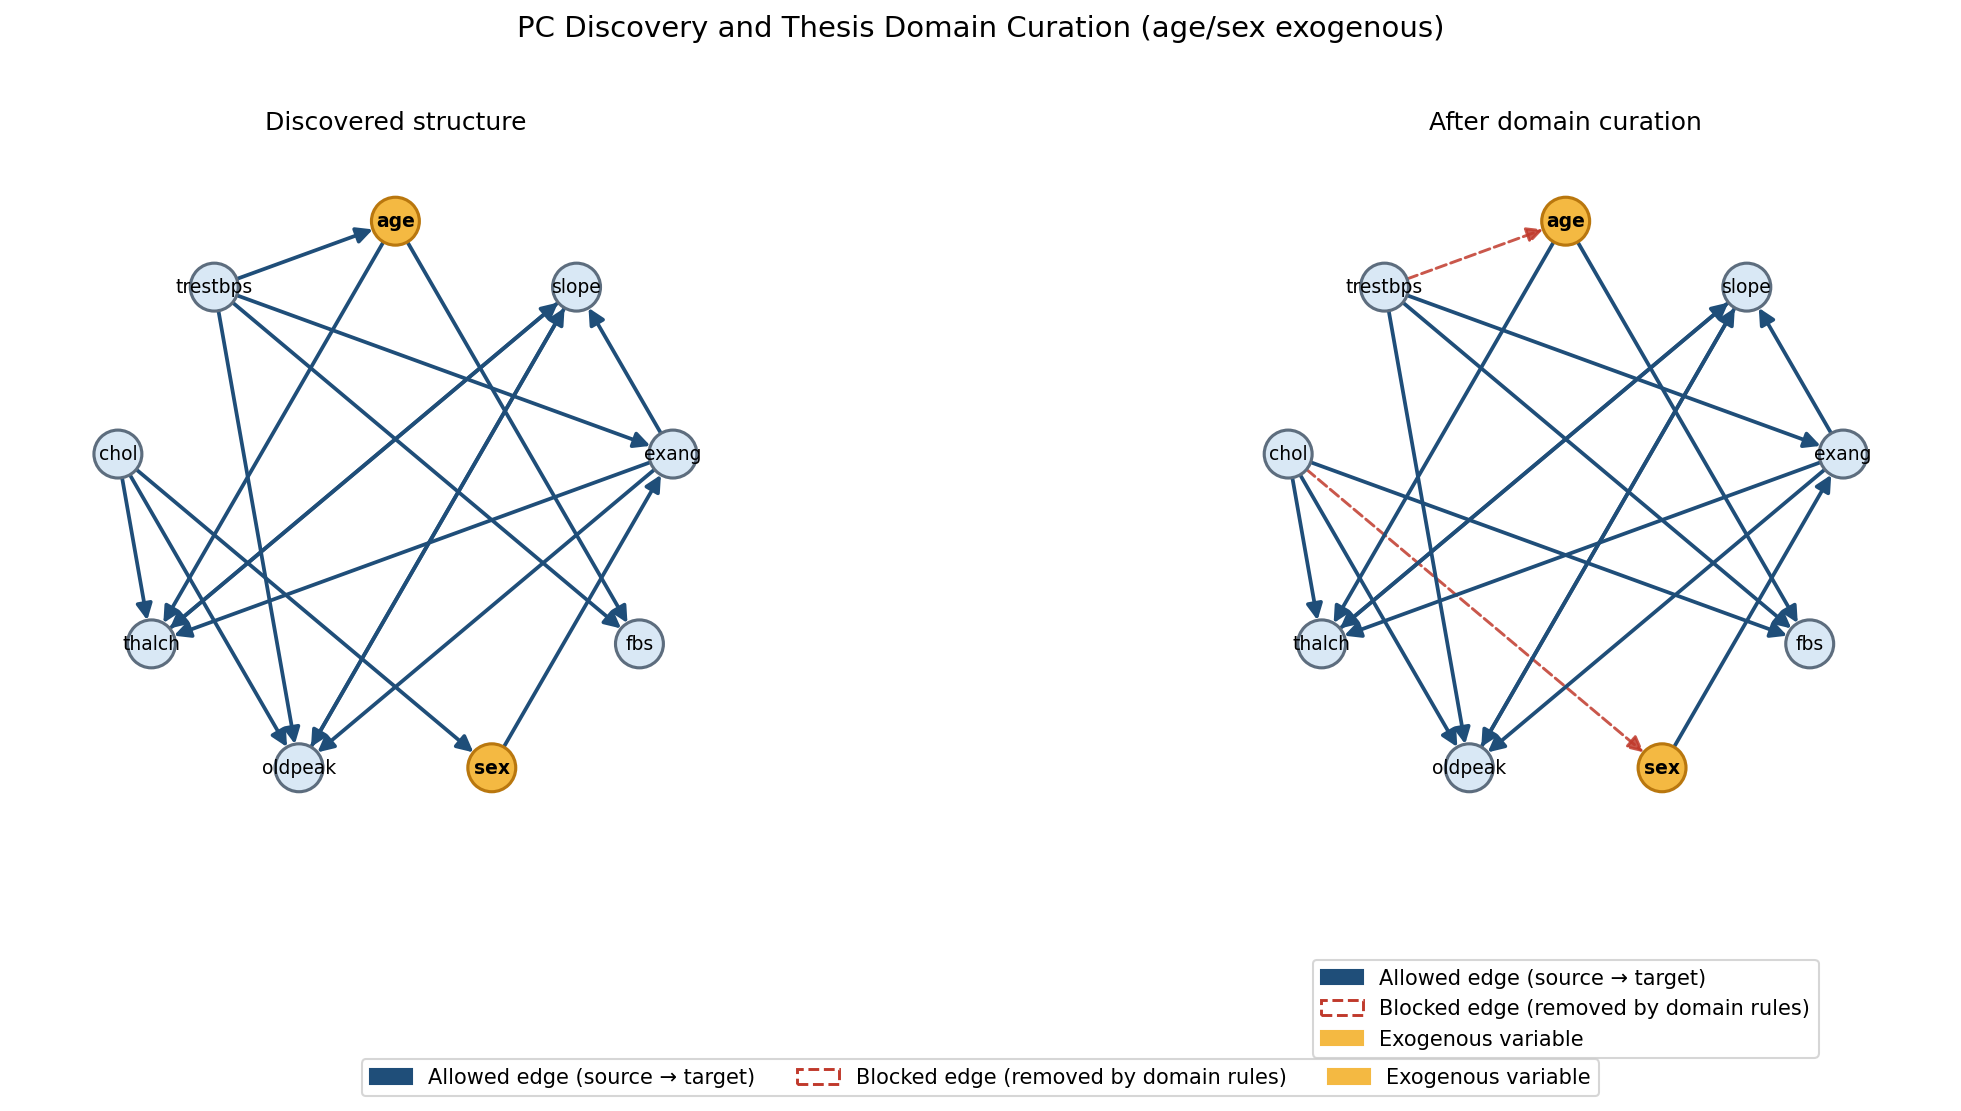
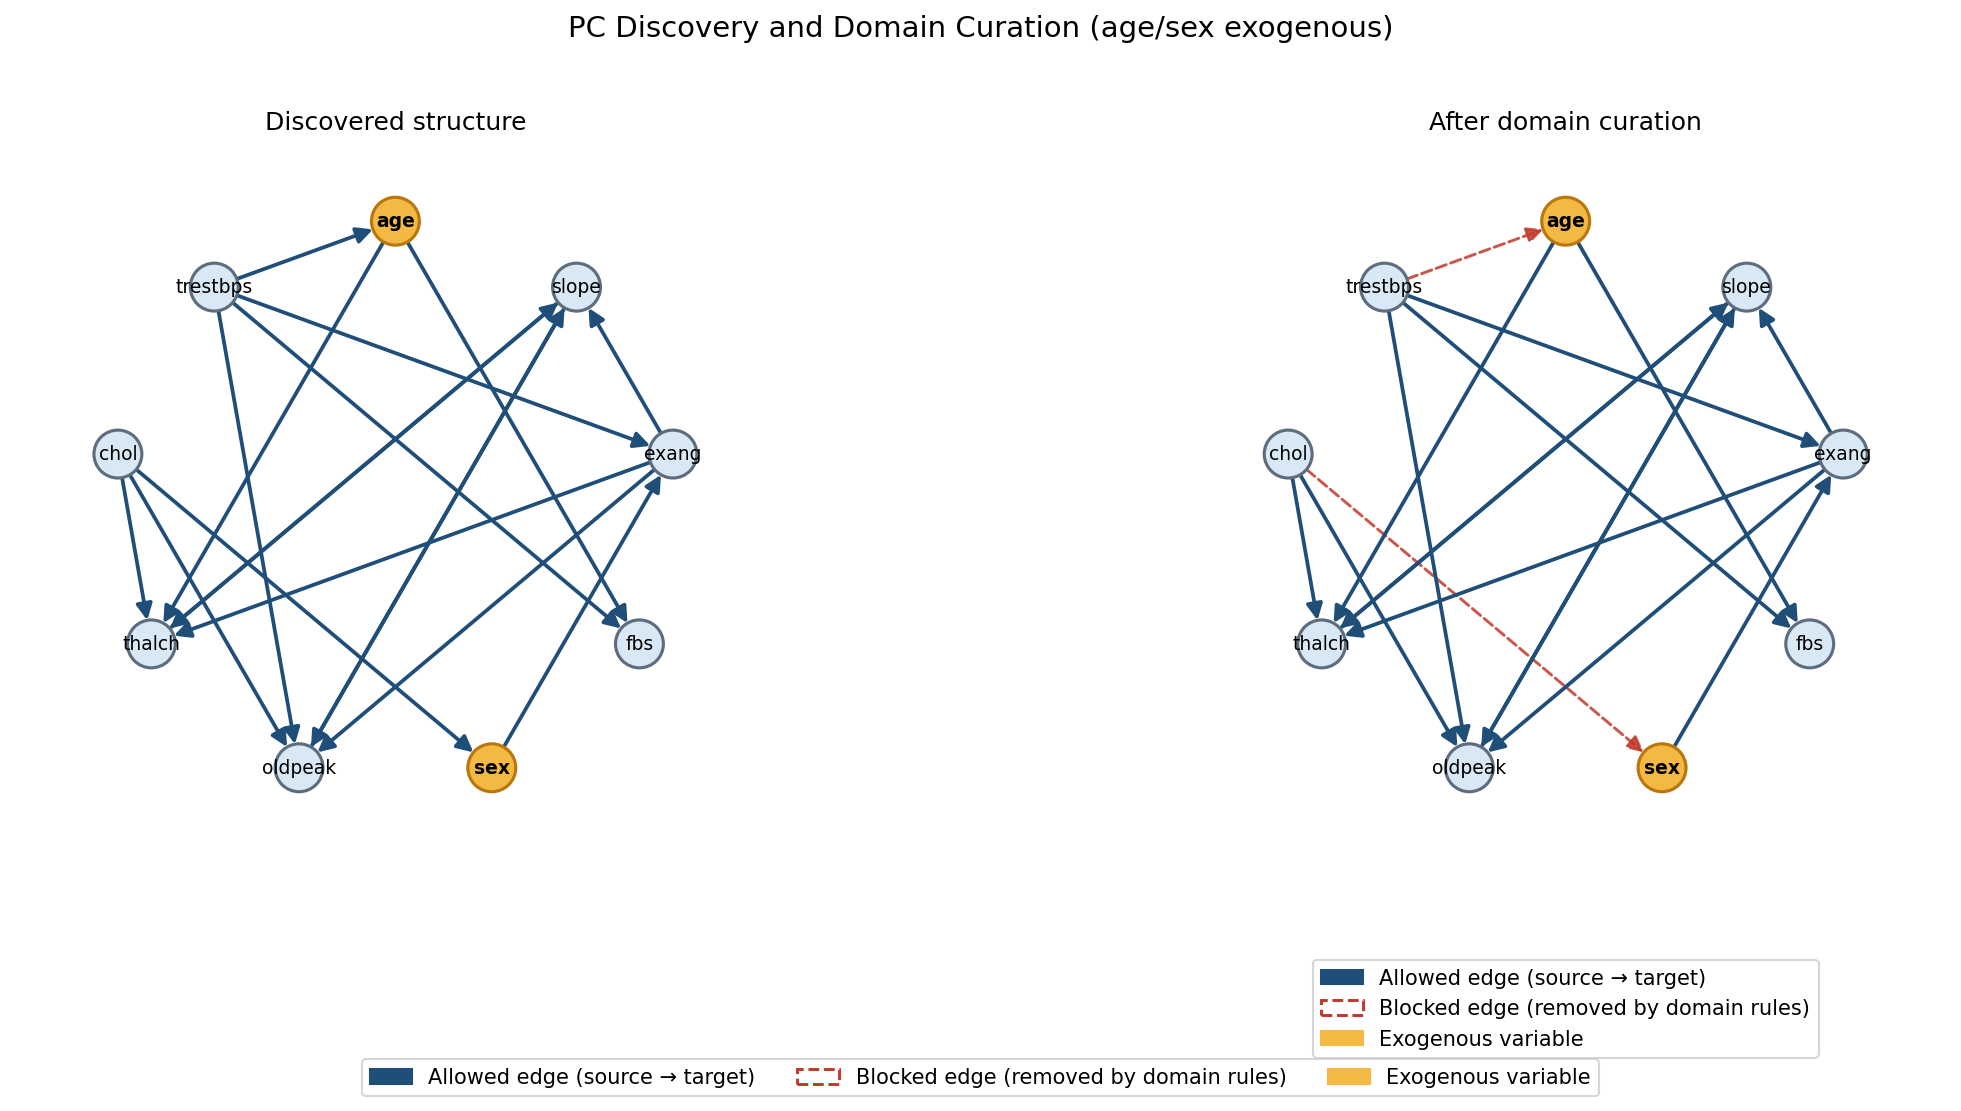
Experiment 2 update

diff --git a/geometry_fisher/structure.py b/geometry_fisher/structure.py
@@ -13,7 +13,7 @@ def _directed_adjacency_from_pc_graph(graph: np.ndarray) -> np.ndarray:
     """
     Convert a causal-learn CPDAG into a binary structural mask.
 
-    Encoding follows the thesis notebook (``Last_hope-Copy1.ipynb``):
+    Encoding follows causal-learn's CPDAG matrix:
 
     - ``graph[i, j] == 1``  → directed edge i → j
     - ``graph[i, j] == -1`` → directed edge j → i
@@ -37,35 +37,6 @@ def _directed_adjacency_from_pc_graph(graph: np.ndarray) -> np.ndarray:
 
     np.fill_diagonal(matrix, 0)
     return matrix
-
-
-# Final curated PC mask from the thesis (pc_mask_visualization), 16 edges.
-THESIS_PC_ALLOWED_EDGES: tuple[tuple[str, str], ...] = (
-    ("thalch", "age"),
-    ("thalch", "chol"),
-    ("thalch", "exang"),
-    ("thalch", "slope"),
-    ("oldpeak", "trestbps"),
-    ("oldpeak", "chol"),
-    ("oldpeak", "exang"),
-    ("oldpeak", "slope"),
-    ("fbs", "age"),
-    ("fbs", "trestbps"),
-    ("fbs", "chol"),
-    ("exang", "trestbps"),
-    ("exang", "sex"),
-    ("slope", "thalch"),
-    ("slope", "oldpeak"),
-    ("slope", "exang"),
-)
-
-THESIS_PC_REJECTED_EDGES: tuple[tuple[str, str], ...] = (
-    ("age", "trestbps"),
-    ("age", "thalch"),
-    ("age", "fbs"),
-    ("sex", "chol"),
-    ("sex", "exang"),
-)
 
 
 @dataclass
@@ -185,14 +156,6 @@ class StructuralMask:
         return cls(matrix=matrix, variable_names=variable_names)
 
     @classmethod
-    def from_thesis_pc_reference(cls, variable_names: List[str]) -> "StructuralMask":
-        """Return the fixed 16-edge PC mask published in the thesis."""
-        return cls.from_domain_knowledge(
-            variable_names=variable_names,
-            allowed_edges=list(THESIS_PC_ALLOWED_EDGES),
-        )
-
-    @classmethod
     def from_pc_algorithm(
         cls,
         X: np.ndarray,
@@ -272,7 +235,7 @@ class StructuralMask:
 
 
 def prepare_matrix_for_pc(X: np.ndarray) -> np.ndarray:
-    """Z-score every column before PC, matching the thesis notebook."""
+    """Z-score every column before PC (Fisher-Z expects comparable scales)."""
     X_arr = np.asarray(X, dtype=float)
     mean = X_arr.mean(axis=0)
     std = X_arr.std(axis=0)
@@ -302,8 +265,8 @@ def discover_data_driven_mask(
     """
     Discover a data-driven mask on the provided data matrix.
 
-    Experiment 2 in the thesis runs PC once on the full pooled sample and
-    reuses the curated mask in every CV fold.
+    When used with cross-validation and ``discover_mask_on="full_data"``,
+    the mask is learned once on all samples and reused in every fold.
     """
     params = mask_params or {}
     X_pc = prepare_matrix_for_pc(X)

diff --git a/examples/run_experiment2.py b/examples/run_experiment2.py
@@ -1,8 +1,7 @@
 """
 Run Experiment 2: data-driven structural masks (PC and stability selection).
 
-The PC row uses the fixed 16-edge thesis reference mask discovered on the
-full pooled sample. Stability selection is discovered once on all 531 samples.
+Each mask is discovered once on the full dataset and reused in all CV folds.
 
 Outputs are written to docs/results/experiment2_results.csv and
 examples/outputs/experiment2_results.csv.
@@ -15,16 +14,14 @@ import pandas as pd
 from geometry_fisher.cross_validation import CrossValidationExperiment
 from geometry_fisher.data import load_heart_disease
 from geometry_fisher.experiments import save_results_table
-from geometry_fisher.structure import StructuralMask
 
 from config import DATA_PATH, OUTPUT_DIR, RESULTS_DIR
 
 MASK_SPECS = [
     {
         "name": "PC algorithm (single run)",
-        "mask": "hand",
-        "mask_object": None,
-        "use_thesis_reference": True,
+        "mask": "pc",
+        "mask_params": {"alpha": 0.05, "exogenous": ["age", "sex"]},
     },
     {
         "name": "PC stability selection",
@@ -36,7 +33,6 @@ MASK_SPECS = [
             "exogenous": ["age", "sex"],
             "random_state": 42,
         },
-        "use_thesis_reference": False,
     },
 ]
 
@@ -48,9 +44,6 @@ def main() -> pd.DataFrame:
         verbose=True,
     )
 
-    thesis_pc_mask = StructuralMask.from_thesis_pc_reference(variable_names)
-    print(f"Thesis PC reference mask: {thesis_pc_mask}")
-
     rows = []
 
     print("=" * 78)
@@ -60,14 +53,9 @@ def main() -> pd.DataFrame:
     for spec in MASK_SPECS:
         print(f"\n{spec['name']}\n")
 
-        mask_object = thesis_pc_mask if spec.get("use_thesis_reference") else None
-        mask = spec["mask"]
-        mask_params = spec.get("mask_params", {})
-
         experiment = CrossValidationExperiment(
-            mask=mask,
-            mask_object=mask_object,
-            mask_params=mask_params,
+            mask=spec["mask"],
+            mask_params=spec["mask_params"],
             discover_mask_on="full_data",
             feature_type="godambe",
             lambda_reg=0.01,
@@ -85,13 +73,16 @@ def main() -> pd.DataFrame:
             variable_names=variable_names,
         )
 
-        fixed_mask = mask_object if mask_object is not None else result.fixed_mask
-        n_params = fixed_mask.n_params if fixed_mask is not None else -1
+        n_params = (
+            result.fixed_mask.n_params
+            if result.fixed_mask is not None
+            else -1
+        )
 
         rows.append(
             {
                 "Method": spec["name"],
-                "Mask": "thesis_pc" if spec.get("use_thesis_reference") else spec["mask"],
+                "Mask": spec["mask"],
                 "Accuracy": f"{result.mean_accuracy:.3f} ± {result.std_accuracy:.3f}",
                 "Macro-F1": f"{result.mean_macro_f1:.3f} ± {result.std_macro_f1:.3f}",
                 "ROC-AUC": f"{result.mean_auc:.3f} ± {result.std_auc:.3f}",

diff --git a/geometry_fisher/cross_validation.py b/geometry_fisher/cross_validation.py
@@ -52,8 +52,8 @@ class CrossValidationExperiment:
         after structure discovery (domain-knowledge curation).
     discover_mask_on : {"full_data", "train_fold"}
         For ``pc`` and ``stability``, where to learn the structural mask.
-        ``full_data`` matches the thesis Experiment 2 protocol: discover once
-        on the pooled sample and reuse the same mask in every fold.
+        ``full_data`` discovers the mask once on the full dataset and reuses it
+        in every fold. ``train_fold`` re-estimates the mask on each training split.
     feature_type : str
         ``godambe`` (thesis method) or ``raw`` (unwhitened gradients).
     outer_splits : int
@@ -113,18 +113,13 @@ class CrossValidationExperiment:
                     raise ValueError(
                         "variable_names are required to discover a data-driven mask."
                     )
-                if mask == "pc" and self.mask_params.get("use_thesis_reference", False):
-                    fixed_mask = StructuralMask.from_thesis_pc_reference(
-                        list(variable_names)
-                    )
-                else:
-                    fixed_mask = discover_data_driven_mask(
-                        X,
-                        variable_names,
-                        continuous_idx,
-                        str(mask),
-                        mask_params,
-                    )
+                fixed_mask = discover_data_driven_mask(
+                    X,
+                    variable_names,
+                    continuous_idx,
+                    str(mask),
+                    mask_params,
+                )
                 mask = "hand"
                 mask_object = fixed_mask
                 mask_params = {}

diff --git a/examples/plot_dependencies.py b/examples/plot_dependencies.py
@@ -87,9 +87,9 @@ def main(*, show: bool = False) -> None:
         variable_names,
         alpha=MASK_PARAMS["alpha"],
     )
-    pc_mask = StructuralMask.from_thesis_pc_reference(variable_names)
+    pc_mask = pc_discovered.enforce_exogeneity(MASK_PARAMS["exogenous"])
     print(f"PC discovered (raw): {pc_discovered}")
-    print(f"Thesis PC reference: {pc_mask}")
+    print(f"PC curated: {pc_mask}")
 
     stability_discovered = StructuralMask.from_stability_selection(
         X_pc,
@@ -112,7 +112,7 @@ def main(*, show: bool = False) -> None:
         ),
         "mask_pc.png": plot_mask(
             pc_mask,
-            title=f"Thesis PC Mask ({pc_mask.n_params} free parameters, 19.8% density)",
+            title=f"PC Algorithm Mask ({pc_mask.n_params} free parameters)",
         ),
         "mask_stability.png": plot_mask(
             stability_mask,
@@ -141,7 +141,7 @@ def main(*, show: bool = False) -> None:
         "structure_pc_curation.png": plot_structure_curation(
             pc_discovered,
             pc_mask,
-            title="PC Discovery and Thesis Domain Curation (age/sex exogenous)",
+            title="PC Discovery and Domain Curation (age/sex exogenous)",
             exogenous=MASK_PARAMS["exogenous"],
         ),
         "structure_stability_graph.png": plot_structure_graph(

diff --git a/tests/test_thesis_alignment.py b/tests/test_thesis_alignment.py
@@ -47,13 +47,6 @@ def test_hand_mask_has_56_parameters(heart_data):
     assert mask.n_params == 56
 
 
-def test_thesis_pc_reference_has_16_edges(heart_data):
-    _, _, variable_names, _, _ = heart_data
-    mask = StructuralMask.from_thesis_pc_reference(variable_names)
-    assert mask.n_params == 16
-    assert abs(mask.n_params / 81 - 0.198) < 0.001
-
-
 def test_godambe_uses_hessian_not_jacobian_covariance(heart_data):
     X, y, variable_names, continuous_idx, ordinal_idx = heart_data
     mask = StructuralMask.from_domain_knowledge(

diff --git a/geometry_fisher/pipeline.py b/geometry_fisher/pipeline.py
@@ -198,10 +198,6 @@ class GeometryFisherClassifier(BaseEstimator, ClassifierMixin):
                 exogenous=self.mask_params.get("exogenous", None),
                 forbidden_edges=self.mask_params.get("forbidden_edges", None),
             )
-        if self.mask == "thesis_pc":
-            if variable_names is None:
-                raise ValueError("variable_names are required for mask='thesis_pc'.")
-            return StructuralMask.from_thesis_pc_reference(variable_names)
         if self.mask in ("stability", "data_driven"):
             return StructuralMask.from_stability_selection(
                 X=X,

diff --git a/README.md b/README.md
@@ -49,10 +49,10 @@ python examples/run_experiments.py
 
 | Method | Accuracy | Macro-F1 | ROC-AUC | n_params |
 |--------|----------|----------|---------|----------|
-| PC algorithm (single run) | 0.778 ± 0.028 | 0.764 ± 0.031 | 0.846 ± 0.035 | **16** |
+| PC algorithm (single run) | 0.782 ± 0.028 | 0.767 ± 0.031 | 0.846 ± 0.036 | 15 |
 | PC stability selection | 0.793 ± 0.030 | 0.779 ± 0.034 | 0.849 ± 0.032 | 12 |
 
-The PC row uses the **fixed 16-edge thesis reference mask** (`StructuralMask.from_thesis_pc_reference()`), discovered on the full pooled sample and reused in every fold. Automatic PC discovery (`mask="pc"`) uses the same causal-learn encoding as `Last_hope-Copy1.ipynb` but can differ slightly in edge count on this dataset; the thesis figure is stored explicitly in code and in `docs/reference/thesis_pc_mask.dot`.
+For Experiment 2, each mask is discovered **once on the full dataset** and held fixed across all CV folds. PC uses causal-learn with Fisher-Z (`α=0.05`), correct CPDAG encoding, all columns z-scored, then incoming edges to `age` and `sex` are blocked. Optional `forbidden_edges` remove additional edges after discovery.
 
 Source: [`docs/results/experiment2_results.csv`](docs/results/experiment2_results.csv)
 
@@ -72,20 +72,13 @@ In each fold:
 2. Fit class-specific composite models under the same mask.
 3. Build features, fit logistic regression on the training fold, evaluate on the test fold.
 
-For Experiment 2, the structural mask is discovered **once on the full pooled sample** (531 patients) and reused in every CV fold, matching the thesis protocol.
+For Experiment 2, the structural mask is discovered **once on the full dataset** and reused in every CV fold.
 
 ## Structural masks
 
 **Hand-specified mask (Experiment 1):** set `mask="hand"` and pass a `StructuralMask` with domain constraints (age and sex exogenous).
 
-**Single PC run (Experiment 2):** set `mask="pc"` for automatic discovery, or use the fixed thesis mask:
-
-```python
-mask = StructuralMask.from_thesis_pc_reference(variable_names)
-clf = GeometryFisherClassifier(mask="hand", mask_object=mask, feature_type="godambe")
-```
-
-Automatic PC discovery (thesis notebook encoding, all columns z-scored before PC):
+**Single PC run (Experiment 2):** set `mask="pc"`.
 
 ```python
 clf = GeometryFisherClassifier(
@@ -93,7 +86,7 @@ clf = GeometryFisherClassifier(
     mask_params={
         "alpha": 0.05,
         "exogenous": ["age", "sex"],
-        "forbidden_edges": [("chol", "slope")],
+        "forbidden_edges": [("chol", "slope")],  # optional post-discovery curation
     },
     feature_type="godambe",
 )